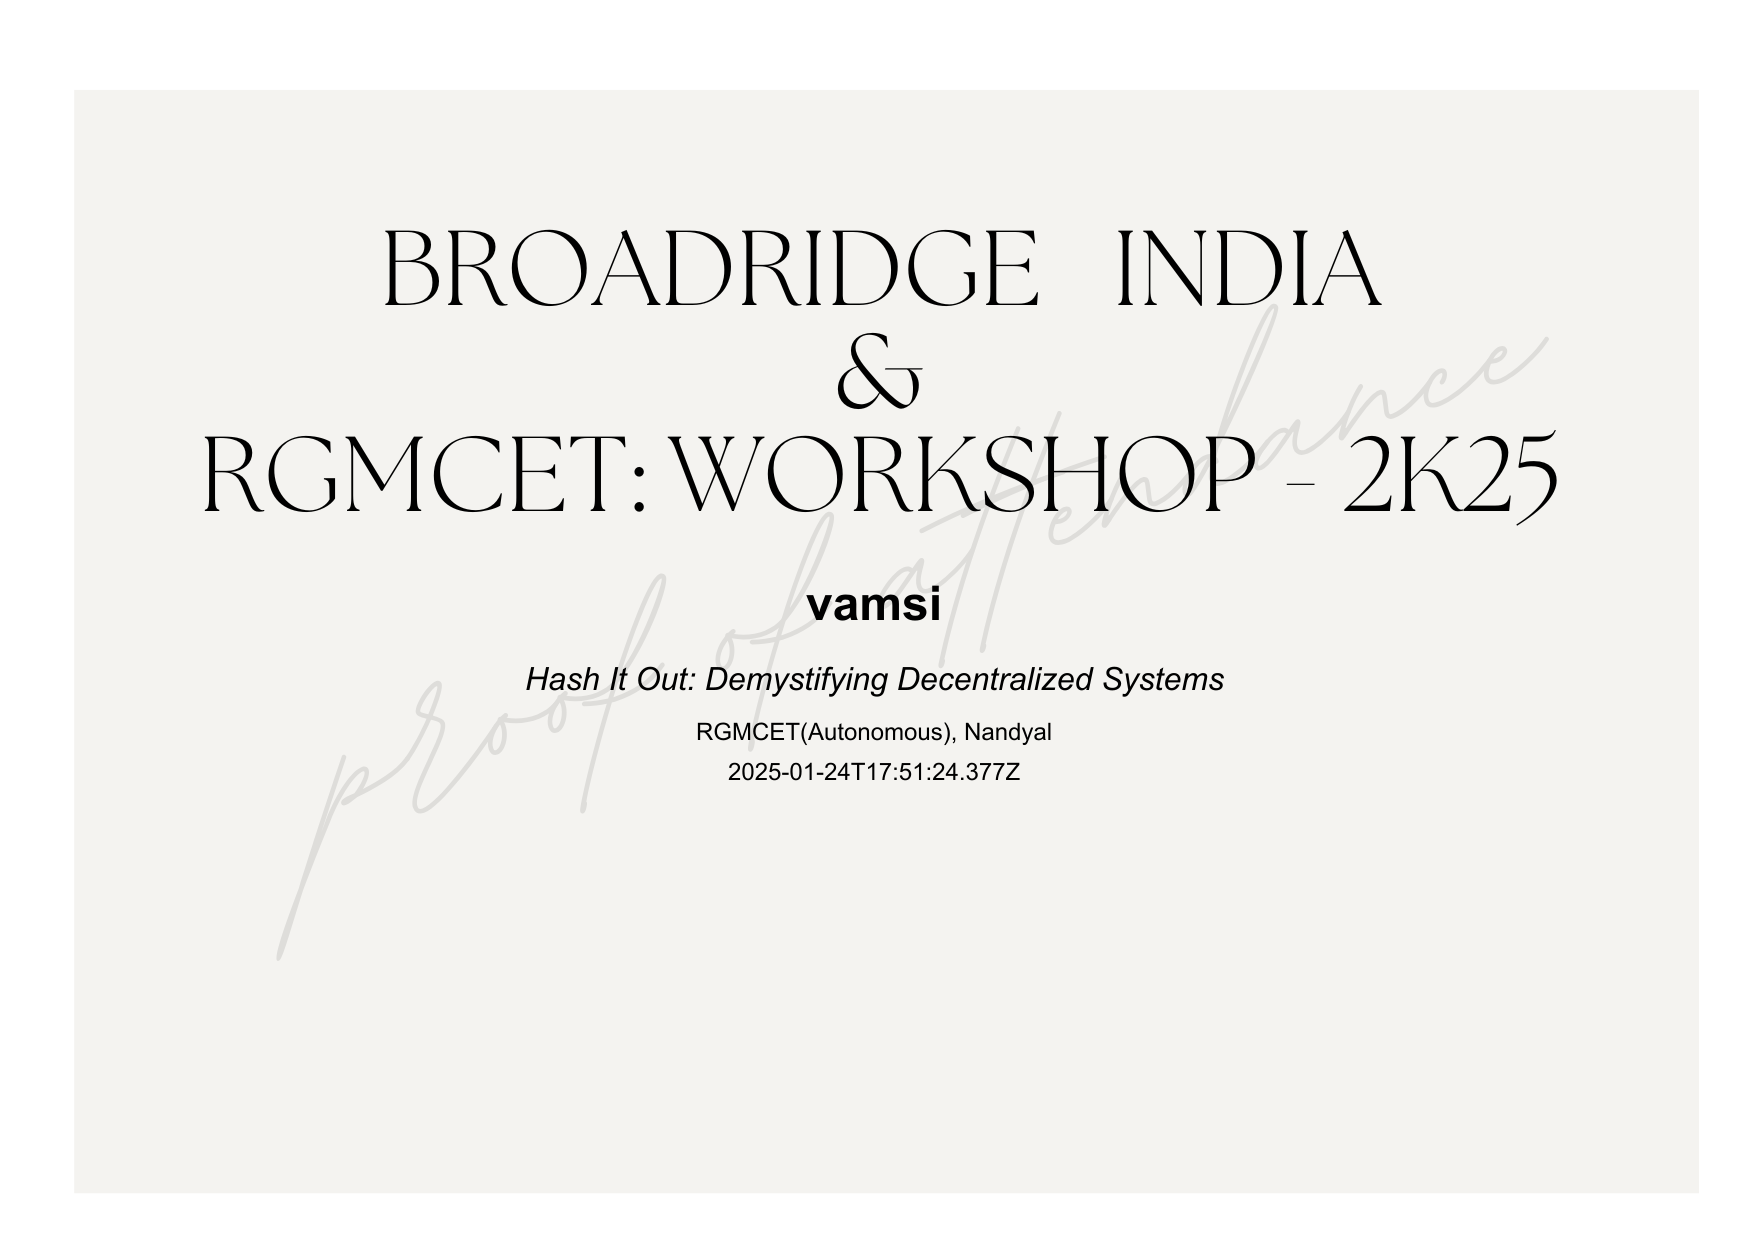
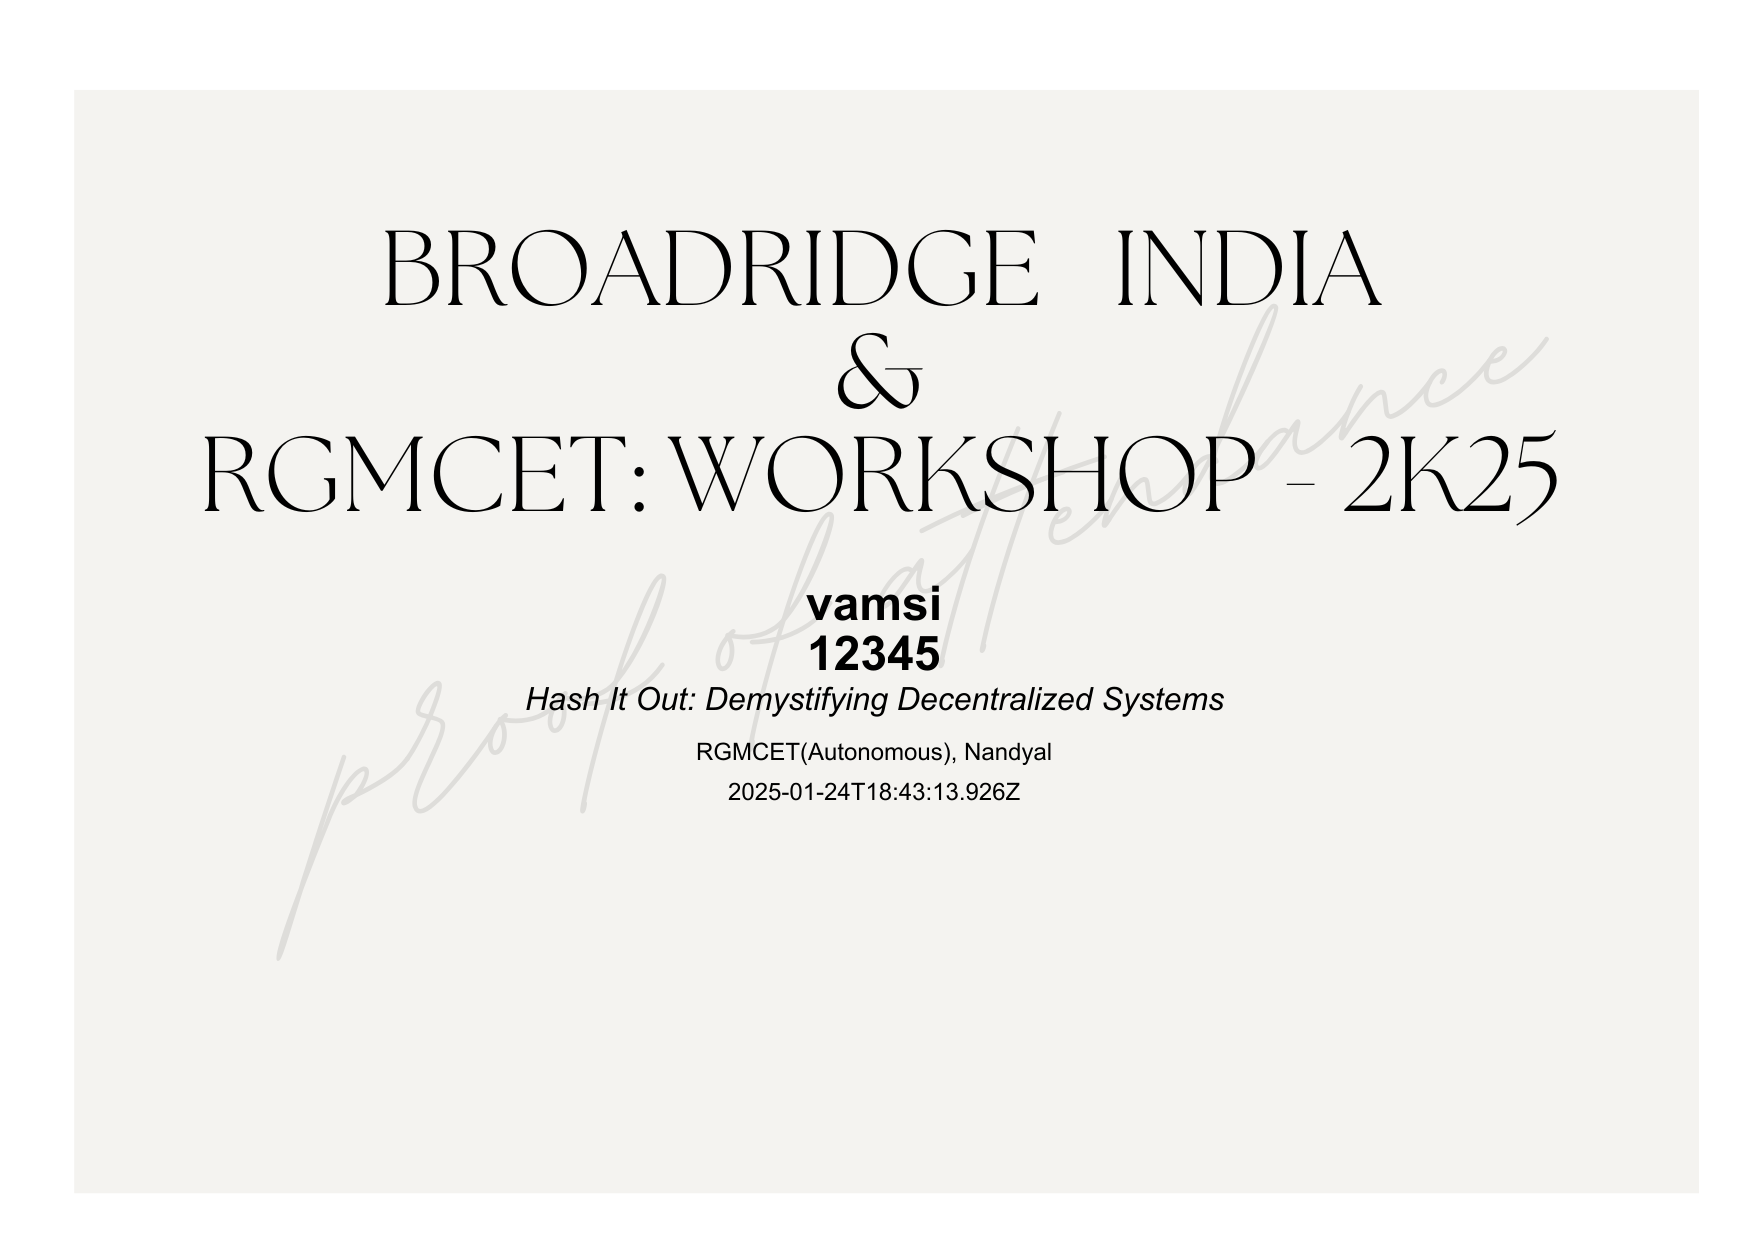
Update

Changed region(s): [[0.3089, 0.4903, 0.7105, 0.6435]]

diff --git a/index.js b/index.js
@@ -5,14 +5,16 @@ const fs = require('fs');
 const certificateDetails = {
   title: "Hash It Out: Demystifying Decentralized Systems",
   location: "RGMCET(Autonomous), Nandyal",
-  workshopDate: new Date().toISOString(),
+  workshopDate: new Date().toISOString() + ' UTC',
 };
 
-const generateCertificate = async (studentName) => {
+const generateCertificate = async (studentDetails) => {
   try {
     // Load the certificate template
+    const studentName  = studentDetails.split(',')[0];
+    const studentAccountNumber = studentDetails.split(',')[1];
     const templatePath = 'templates/TMPLT_Cert.png'; // Path to your template
-    const outputPath = `certificates/${studentName.replace(/\s+/g, '_')}.png`; // Save path for the certificate
+    const outputPath = `certificates/${studentAccountNumber.replace(/\s+/g, '_')}.png`; // Save path for the certificate
     const template = await loadImage(templatePath);
 
     // Create a canvas
@@ -27,15 +29,18 @@ const generateCertificate = async (studentName) => {
     ctx.fillStyle = '#000'; // Black color
     ctx.textAlign = 'center';
     ctx.fillText(studentName, canvas.width / 2, canvas.height / 2);
+    
+    ctx.font = '32px Arial';
+    ctx.fillText(studentAccountNumber, canvas.width / 2, canvas.height /2 + 50);
 
     // Add workshop title
     ctx.font = 'italic 32px Arial';
-    ctx.fillText(certificateDetails.title, canvas.width / 2, canvas.height / 2 + 70);
+    ctx.fillText(certificateDetails.title, canvas.width / 2, canvas.height / 2 + 140);
 
     // Add location and date
     ctx.font = '24px Arial';
-    ctx.fillText(certificateDetails.location, canvas.width / 2, canvas.height / 2 + 120);
-    ctx.fillText(certificateDetails.workshopDate, canvas.width / 2, canvas.height / 2 + 160);
+    ctx.fillText(certificateDetails.location, canvas.width / 2, canvas.height / 2 + 190);
+    ctx.fillText(certificateDetails.workshopDate, canvas.width / 2, canvas.height / 2 + 230);
 
     // Save the certificate as a PNG file
     const buffer = canvas.toBuffer('image/png');
